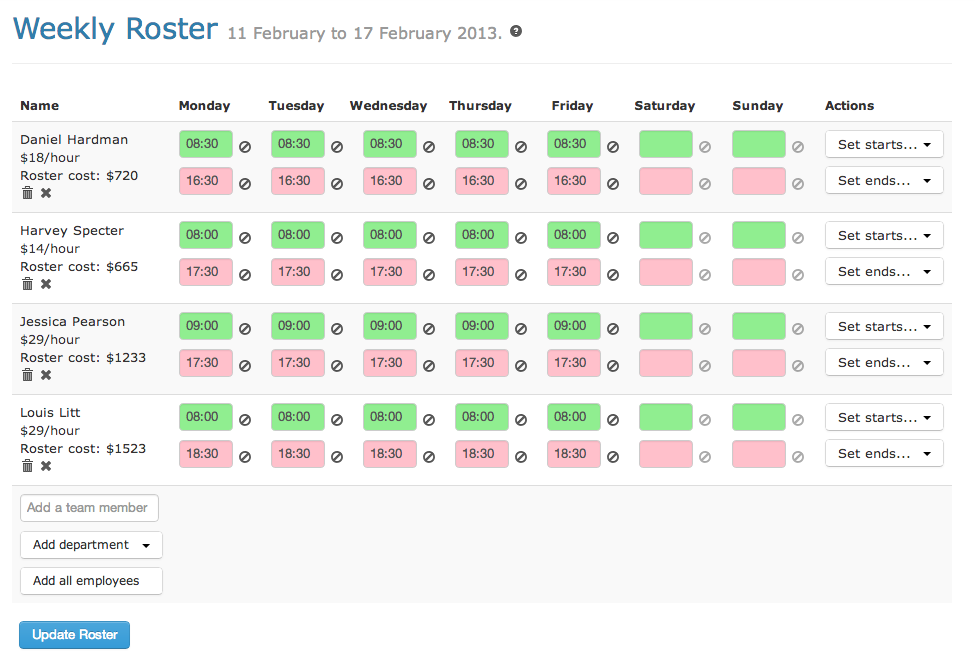
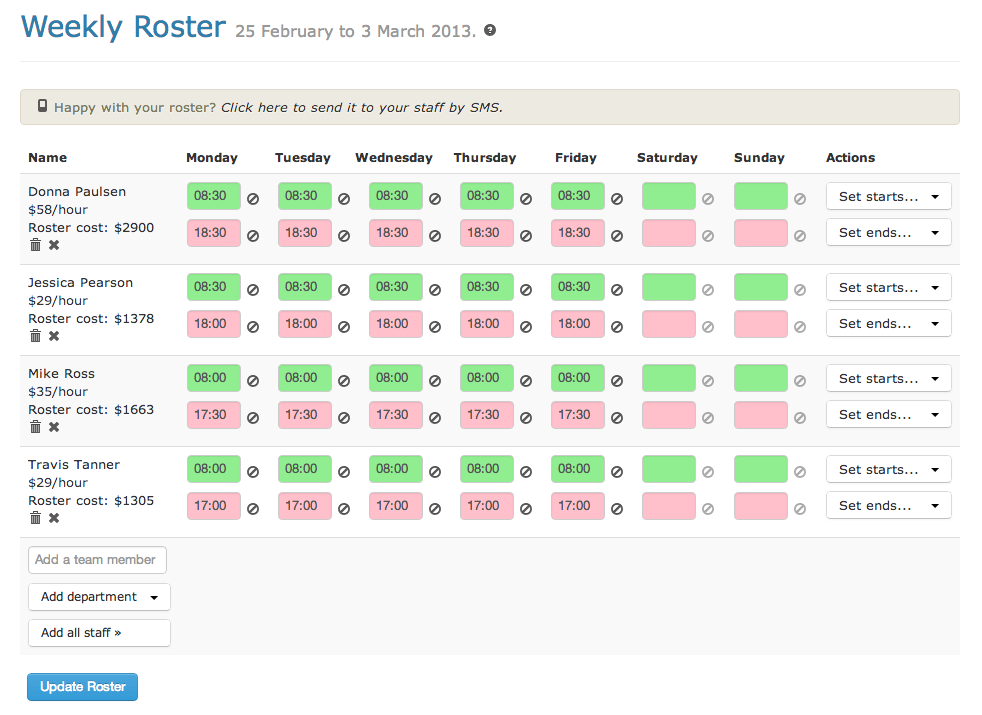
add send by sms

diff --git a/_posts/rosters/2013-02-24-sms.md b/_posts/rosters/2013-02-24-sms.md
@@ -1,0 +1,37 @@
+---
+layout: guide
+title: Sending Rosters by SMS
+categories: ['rosters']
+sort: 4
+alias: /rosters
+---
+
+You've put together an roster and now you just need to share with your staff. How do you do that? You could print it out, stick it up all over the workplace, and make sure everyone sees it &mdash; but wouldn't it be easier to just send each person their shifts straight to their phone?
+
+PayAus can do this for you. Just click the link at the top of any roster.
+
+![Click the link to send a roster by SMS](/img/rosters/send_by_sms_prompt.png)
+
+### Sending Rosters by SMS
+
+Sending rosters by SMS is a simple process. Usually you won't need to configure anything &mdash; just click send. By default, rosters will be sent to all staff who have a schedule entered in the relevant roster, and who have a phone number in PayAus. To make things even easier, PayAus even shows you a preview of the message that will be sent on the right hand side of the screen when you hover over someone's name.
+
+![Sending rosters by SMS](/img/rosters/send_roster_by_sms.png)
+
+### Troubleshooting
+
+#### Exclamation Marks
+
+![User with an exclamation sign](/img/rosters/sms_exclamation.png)
+
+If you see an employee with an exclamation mark next to their name, they don't have a phone number in PayAus, so they can't get sent a roster by SMS. Add a phone number on their [details page](../../staff/team/) then refresh the page.
+
+#### Grayed Out Names
+
+![User with a grayed out name](/img/rosters/sms_gray.png)
+
+If you see an employee with their name grayed out, you haven't filled out their schedule, so there aren't any times to SMS them. By default, their name isn't ticked, so they won't get a message. If you tick their name they'll get a message that looks like
+
+> You are not rostered to work for the week starting Monday, 25/02.
+
+Alternatively, add their times to the roster, or remove them from the roster!

diff --git a/_posts/rosters/2013-02-06-user-management.md b/_posts/rosters/2013-02-06-user-management.md
@@ -5,10 +5,11 @@ categories: ['rosters']
 sort: 2
 ---
 
+![A big and beautiful roster](/img/rosters/full.png)
 
 ### Adding Staff
 
-The first thing any roster needs is employees to fill it. There are a few ways to add staff to a PayAus roster, and they're all located at the bottom.
+The first thing any roster needs is employees to fill it. There are a few ways to add staff to a PayAus roster, and they're all located at the **bottom of the roster**.
 
 ![Adding staff to your roster](/img/rosters/staff_options.png)
 

diff --git a/_posts/rosters/2013-02-18-times.md b/_posts/rosters/2013-02-18-times.md
@@ -9,7 +9,7 @@ You've filled this roster with [staff](../user-management/) &mdash; what's next?
 
 ### Copying from last week
 
-The easiest way to fill out your roster is to copy the previous week's.
+The easiest way to fill out your roster is to copy the previous week's. At the **bottom of the roster**...
 
 ![Adding staff to your roster](/img/rosters/staff_options.png)
 

diff --git a/_posts/rosters/2013-02-06-integration-and-reporting.md b/_posts/rosters/2013-02-06-integration-and-reporting.md
@@ -3,7 +3,7 @@ published: false
 layout: guide
 title: Tips and Tricks
 categories: ['rosters']
-sort: 4
+sort: 5
 ---
 
 Reporting integration?
